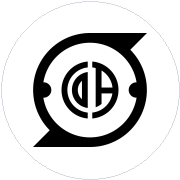
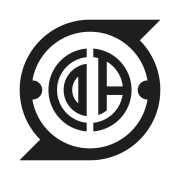
ファビコンを会社ロゴから作り直す
小さい表示で見にくかったのは、元の画像が円形の白い余白に囲まれていて
マークが枠の6割ほどしか使えていなかったため。ロゴの外接矩形で切り出し、
正方形いっぱいまで使うようにした。

- 白背景を透過に落とし、暗い配色のタブでも馴染むようにする
- 16/32/48を束ねたfavicon.icoを追加(ブックマークバーや古い環境向け)
- 192pxを追加。apple-touch-iconはiOSが角丸で切るため内側に寄せ、
  透過が黒く落ちる端末を考えて白地で焼き込む
- 差し替えてもブラウザが古い画像を握り続けるため ?v= を付ける

diff --git a/resources/views/layouts/app.blade.php b/resources/views/layouts/app.blade.php
@@ -7,10 +7,12 @@
 
         <title>{{ config('app.name', 'Laravel') }}</title>
 
-        <!-- Favicon -->
-        <link rel="icon" type="image/png" sizes="32x32" href="{{ asset('favicon-32.png') }}">
-        <link rel="icon" type="image/png" sizes="512x512" href="{{ asset('favicon-512.png') }}">
-        <link rel="apple-touch-icon" href="{{ asset('apple-touch-icon.png') }}">
+        {{-- ファビコン。差し替えてもブラウザが古い画像を握り続けるため ?v= を付ける。 --}}
+        <link rel="icon" href="{{ asset('favicon.ico') }}?v=2" sizes="any">
+        <link rel="icon" type="image/png" sizes="32x32" href="{{ asset('favicon-32.png') }}?v=2">
+        <link rel="icon" type="image/png" sizes="192x192" href="{{ asset('favicon-192.png') }}?v=2">
+        <link rel="icon" type="image/png" sizes="512x512" href="{{ asset('favicon-512.png') }}?v=2">
+        <link rel="apple-touch-icon" href="{{ asset('apple-touch-icon.png') }}?v=2">
 
         <!-- Fonts -->
         <link rel="preconnect" href="https://fonts.bunny.net">

diff --git a/resources/views/layouts/guest.blade.php b/resources/views/layouts/guest.blade.php
@@ -7,10 +7,12 @@
 
         <title>{{ config('app.name', 'Laravel') }}</title>
 
-        <!-- Favicon -->
-        <link rel="icon" type="image/png" sizes="32x32" href="{{ asset('favicon-32.png') }}">
-        <link rel="icon" type="image/png" sizes="512x512" href="{{ asset('favicon-512.png') }}">
-        <link rel="apple-touch-icon" href="{{ asset('apple-touch-icon.png') }}">
+        {{-- ファビコン。差し替えてもブラウザが古い画像を握り続けるため ?v= を付ける。 --}}
+        <link rel="icon" href="{{ asset('favicon.ico') }}?v=2" sizes="any">
+        <link rel="icon" type="image/png" sizes="32x32" href="{{ asset('favicon-32.png') }}?v=2">
+        <link rel="icon" type="image/png" sizes="192x192" href="{{ asset('favicon-192.png') }}?v=2">
+        <link rel="icon" type="image/png" sizes="512x512" href="{{ asset('favicon-512.png') }}?v=2">
+        <link rel="apple-touch-icon" href="{{ asset('apple-touch-icon.png') }}?v=2">
 
         <!-- Fonts -->
         <link rel="preconnect" href="https://fonts.bunny.net">
